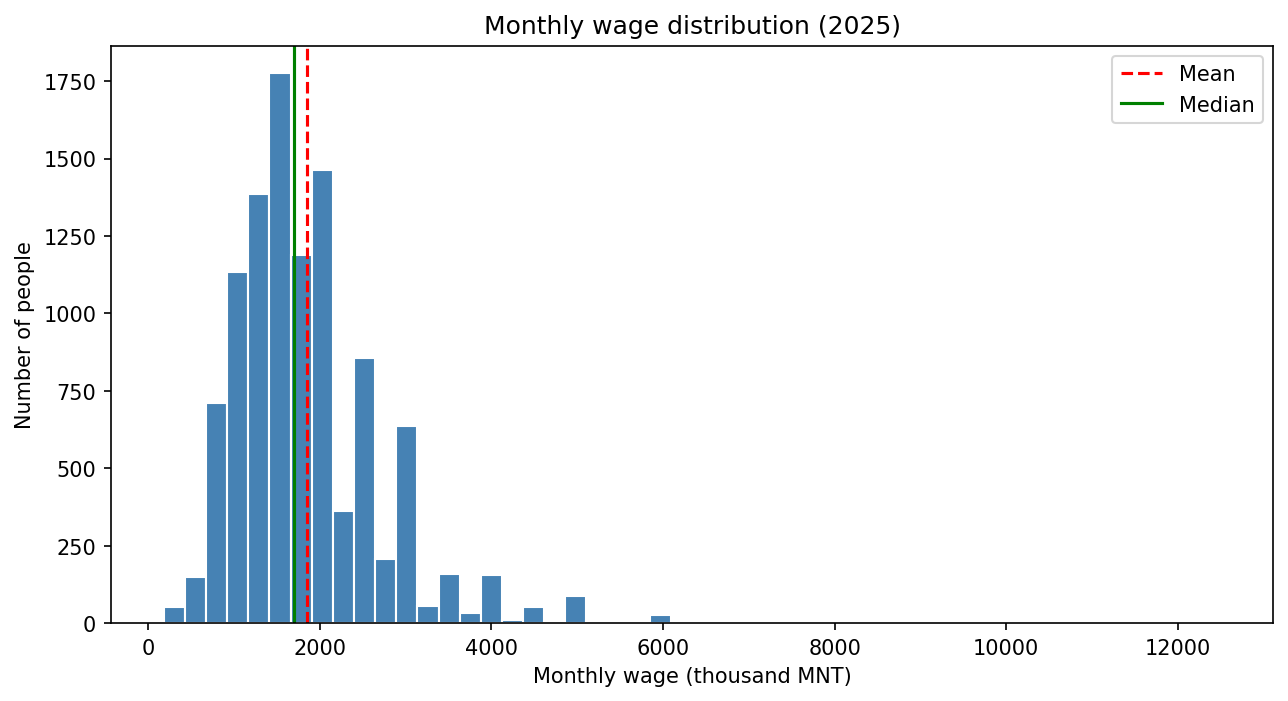
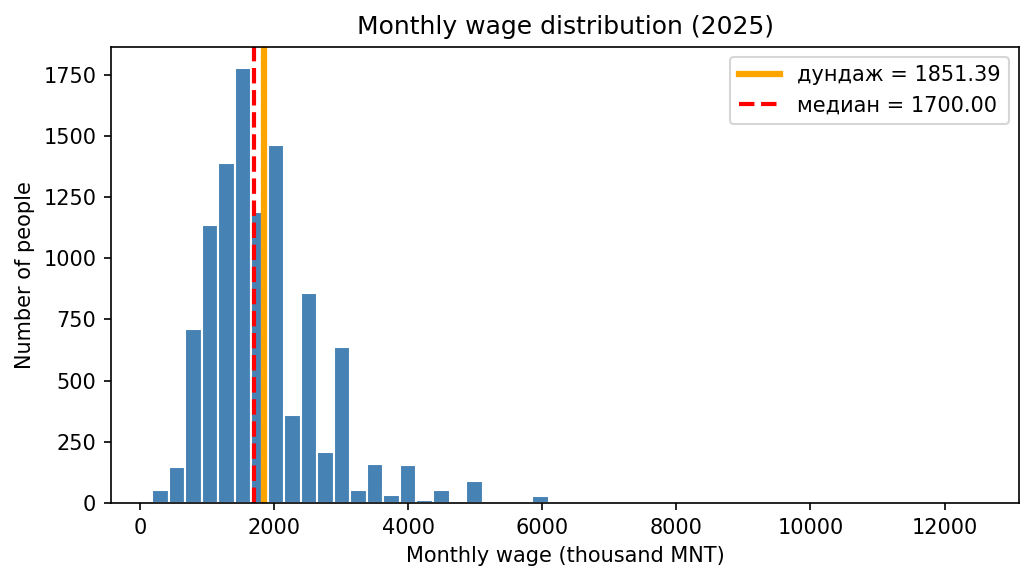
final workin of python

diff --git a/2024/index.py b/2024/index.py
@@ -8,14 +8,19 @@ from pathlib import Path
 import numpy as np
 import pandas as pd
 
-from aiaa_eda_tools_team_4.cleaning import (missing_report, iqr_outliers, basic_stats,
-                                            group_rate, labour_indicators)
-from aiaa_eda_tools_team_4.stats import group_stats, iqr_bounds
-from aiaa_eda_tools_team_4.plots import plot_hist, plot_bar, plot_box, plot_line, plot_corr
+try:
+    from aiaa_eda_tools_team_4.cleaning import (missing_report, iqr_outliers, basic_stats,
+                                                group_rate, labour_indicators)
+    from aiaa_eda_tools_team_4.stats import group_stats, iqr_bounds
+    from aiaa_eda_tools_team_4.plots import plot_hist, plot_bar, plot_box, plot_line, plot_corr
+except ImportError as e:
+    raise SystemExit(f"The library is missing or too old ({e}).\n"
+                     "Fix: py -m pip install --upgrade aiaa-eda-tools-team-4")
 
 # Settings for this year's data (column names differ between survey years)
 YEAR = 2024
 WEIGHT_COL = "weighty_cal_Y"
+SHOW_PLOTS = True   # open each chart in a window (close it to see the next one)
 PERSON_KEY = ["PSU", "ssu", "quarter", "p01"]   # columns that identify one person
 
 DATA_PATH = Path(__file__).resolve().parent / "data.csv"
@@ -110,7 +115,7 @@ print("Range:", np.ptp(wage["f02"]))
 
 plot_hist(wage, "f02", path=OUT_DIR / "hist_wage.png", bins=50,
           title=f"Monthly wage distribution ({YEAR})",
-          xlabel="Monthly wage (thousand MNT)", ylabel="Number of people", show=False)
+          xlabel="Monthly wage (thousand MNT)", ylabel="Number of people", show=SHOW_PLOTS)
 
 
 # 5. Wages by group: sex, education, age
@@ -175,13 +180,13 @@ rates_long = (lf_sex.rename(columns={"lfpr": "Participation %", "unemp_rate": "U
 plot_bar(rates_long, x="indicator", y="rate", hue="sex", palette=sex_colors,
          path=OUT_DIR / "bar_labour_rates_sex.png", ylim=(0, 100),
          title=f"Labour force rates by sex, weighted ({YEAR})",
-         xlabel="", ylabel="Rate (%)", show=False)
+         xlabel="", ylabel="Rate (%)", show=SHOW_PLOTS)
 
 # plot_box: wage spread for each education level (y cut at 1.5x the IQR upper bound)
 plot_box(wage, x="education", y="f02", order=EDU_ORDER, rotate=40,
          ylim=(0, b["upper"] * 1.5), path=OUT_DIR / "box_wage_edu.png",
          title=f"Monthly wage by education ({YEAR})",
-         xlabel="", ylabel="Monthly wage (thousand MNT)", show=False)
+         xlabel="", ylabel="Monthly wage (thousand MNT)", show=SHOW_PLOTS)
 
 # plot_line: median wage across age groups, one line per sex
 age_sex = group_stats(wage, ["age_group", "sex"], "f02").reset_index()
@@ -189,12 +194,12 @@ age_sex["age_group"] = age_sex["age_group"].astype(str)
 plot_line(age_sex, x="age_group", y="median", hue="sex", palette=sex_colors,
           path=OUT_DIR / "line_wage_age_sex.png",
           title=f"Median monthly wage by age and sex ({YEAR})",
-          xlabel="Age group", ylabel="Median wage (thousand MNT)", show=False)
+          xlabel="Age group", ylabel="Median wage (thousand MNT)", show=SHOW_PLOTS)
 
 # plot_corr: how wage, age and working hours move together
 numeric = wage[["f02", "a05", "g01t", "g02t"]].rename(columns={
     "f02": "Wage", "a05": "Age", "g01t": "Usual hours/week", "g02t": "Actual hours/week"})
 plot_corr(numeric, path=OUT_DIR / "corr_wage_age_hours.png",
-          title=f"Correlation: wage, age, hours ({YEAR})", show=False)
+          title=f"Correlation: wage, age, hours ({YEAR})", show=SHOW_PLOTS)
 
 print("Charts saved to:", OUT_DIR)

diff --git a/2023/index.py b/2023/index.py
@@ -8,14 +8,19 @@ from pathlib import Path
 import numpy as np
 import pandas as pd
 
-from aiaa_eda_tools_team_4.cleaning import (missing_report, iqr_outliers, basic_stats,
-                                            group_rate, labour_indicators)
-from aiaa_eda_tools_team_4.stats import group_stats, iqr_bounds
-from aiaa_eda_tools_team_4.plots import plot_hist, plot_bar, plot_box, plot_line, plot_corr
+try:
+    from aiaa_eda_tools_team_4.cleaning import (missing_report, iqr_outliers, basic_stats,
+                                                group_rate, labour_indicators)
+    from aiaa_eda_tools_team_4.stats import group_stats, iqr_bounds
+    from aiaa_eda_tools_team_4.plots import plot_hist, plot_bar, plot_box, plot_line, plot_corr
+except ImportError as e:
+    raise SystemExit(f"The library is missing or too old ({e}).\n"
+                     "Fix: py -m pip install --upgrade aiaa-eda-tools-team-4")
 
 # Settings for this year's data (column names differ between survey years)
 YEAR = 2023
 WEIGHT_COL = "weight_cal_Y"
+SHOW_PLOTS = True   # open each chart in a window (close it to see the next one)
 PERSON_KEY = ["psu", "ssu", "quarter", "p01"]   # columns that identify one person
 
 DATA_PATH = Path(__file__).resolve().parent / "data.csv"
@@ -110,7 +115,7 @@ print("Range:", np.ptp(wage["f02"]))
 
 plot_hist(wage, "f02", path=OUT_DIR / "hist_wage.png", bins=50,
           title=f"Monthly wage distribution ({YEAR})",
-          xlabel="Monthly wage (thousand MNT)", ylabel="Number of people", show=False)
+          xlabel="Monthly wage (thousand MNT)", ylabel="Number of people", show=SHOW_PLOTS)
 
 
 # 5. Wages by group: sex, education, age
@@ -175,13 +180,13 @@ rates_long = (lf_sex.rename(columns={"lfpr": "Participation %", "unemp_rate": "U
 plot_bar(rates_long, x="indicator", y="rate", hue="sex", palette=sex_colors,
          path=OUT_DIR / "bar_labour_rates_sex.png", ylim=(0, 100),
          title=f"Labour force rates by sex, weighted ({YEAR})",
-         xlabel="", ylabel="Rate (%)", show=False)
+         xlabel="", ylabel="Rate (%)", show=SHOW_PLOTS)
 
 # plot_box: wage spread for each education level (y cut at 1.5x the IQR upper bound)
 plot_box(wage, x="education", y="f02", order=EDU_ORDER, rotate=40,
          ylim=(0, b["upper"] * 1.5), path=OUT_DIR / "box_wage_edu.png",
          title=f"Monthly wage by education ({YEAR})",
-         xlabel="", ylabel="Monthly wage (thousand MNT)", show=False)
+         xlabel="", ylabel="Monthly wage (thousand MNT)", show=SHOW_PLOTS)
 
 # plot_line: median wage across age groups, one line per sex
 age_sex = group_stats(wage, ["age_group", "sex"], "f02").reset_index()
@@ -189,12 +194,12 @@ age_sex["age_group"] = age_sex["age_group"].astype(str)
 plot_line(age_sex, x="age_group", y="median", hue="sex", palette=sex_colors,
           path=OUT_DIR / "line_wage_age_sex.png",
           title=f"Median monthly wage by age and sex ({YEAR})",
-          xlabel="Age group", ylabel="Median wage (thousand MNT)", show=False)
+          xlabel="Age group", ylabel="Median wage (thousand MNT)", show=SHOW_PLOTS)
 
 # plot_corr: how wage, age and working hours move together
 numeric = wage[["f02", "a05", "g01t", "g02t"]].rename(columns={
     "f02": "Wage", "a05": "Age", "g01t": "Usual hours/week", "g02t": "Actual hours/week"})
 plot_corr(numeric, path=OUT_DIR / "corr_wage_age_hours.png",
-          title=f"Correlation: wage, age, hours ({YEAR})", show=False)
+          title=f"Correlation: wage, age, hours ({YEAR})", show=SHOW_PLOTS)
 
 print("Charts saved to:", OUT_DIR)

diff --git a/2025/index.py b/2025/index.py
@@ -8,14 +8,19 @@ from pathlib import Path
 import numpy as np
 import pandas as pd
 
-from aiaa_eda_tools_team_4.cleaning import (missing_report, iqr_outliers, basic_stats,
-                                            group_rate, labour_indicators)
-from aiaa_eda_tools_team_4.stats import group_stats, iqr_bounds
-from aiaa_eda_tools_team_4.plots import plot_hist, plot_bar, plot_box, plot_line, plot_corr
+try:
+    from aiaa_eda_tools_team_4.cleaning import (missing_report, iqr_outliers, basic_stats,
+                                                group_rate, labour_indicators)
+    from aiaa_eda_tools_team_4.stats import group_stats, iqr_bounds
+    from aiaa_eda_tools_team_4.plots import plot_hist, plot_bar, plot_box, plot_line, plot_corr
+except ImportError as e:
+    raise SystemExit(f"The library is missing or too old ({e}).\n"
+                     "Fix: py -m pip install --upgrade aiaa-eda-tools-team-4")
 
 # Settings for this year's data (column names differ between survey years)
 YEAR = 2025
 WEIGHT_COL = "weight_cal_y"
+SHOW_PLOTS = True   # open each chart in a window (close it to see the next one)
 PERSON_KEY = ["axc_id", "p01"]   # columns that identify one person
 
 DATA_PATH = Path(__file__).resolve().parent / "data.csv"
@@ -110,7 +115,7 @@ print("Range:", np.ptp(wage["f02"]))
 
 plot_hist(wage, "f02", path=OUT_DIR / "hist_wage.png", bins=50,
           title=f"Monthly wage distribution ({YEAR})",
-          xlabel="Monthly wage (thousand MNT)", ylabel="Number of people", show=False)
+          xlabel="Monthly wage (thousand MNT)", ylabel="Number of people", show=SHOW_PLOTS)
 
 
 # 5. Wages by group: sex, education, age
@@ -175,13 +180,13 @@ rates_long = (lf_sex.rename(columns={"lfpr": "Participation %", "unemp_rate": "U
 plot_bar(rates_long, x="indicator", y="rate", hue="sex", palette=sex_colors,
          path=OUT_DIR / "bar_labour_rates_sex.png", ylim=(0, 100),
          title=f"Labour force rates by sex, weighted ({YEAR})",
-         xlabel="", ylabel="Rate (%)", show=False)
+         xlabel="", ylabel="Rate (%)", show=SHOW_PLOTS)
 
 # plot_box: wage spread for each education level (y cut at 1.5x the IQR upper bound)
 plot_box(wage, x="education", y="f02", order=EDU_ORDER, rotate=40,
          ylim=(0, b["upper"] * 1.5), path=OUT_DIR / "box_wage_edu.png",
          title=f"Monthly wage by education ({YEAR})",
-         xlabel="", ylabel="Monthly wage (thousand MNT)", show=False)
+         xlabel="", ylabel="Monthly wage (thousand MNT)", show=SHOW_PLOTS)
 
 # plot_line: median wage across age groups, one line per sex
 age_sex = group_stats(wage, ["age_group", "sex"], "f02").reset_index()
@@ -189,12 +194,12 @@ age_sex["age_group"] = age_sex["age_group"].astype(str)
 plot_line(age_sex, x="age_group", y="median", hue="sex", palette=sex_colors,
           path=OUT_DIR / "line_wage_age_sex.png",
           title=f"Median monthly wage by age and sex ({YEAR})",
-          xlabel="Age group", ylabel="Median wage (thousand MNT)", show=False)
+          xlabel="Age group", ylabel="Median wage (thousand MNT)", show=SHOW_PLOTS)
 
 # plot_corr: how wage, age and working hours move together
 numeric = wage[["f02", "a05", "g01t", "g02t"]].rename(columns={
     "f02": "Wage", "a05": "Age", "g01t": "Usual hours/week", "g02t": "Actual hours/week"})
 plot_corr(numeric, path=OUT_DIR / "corr_wage_age_hours.png",
-          title=f"Correlation: wage, age, hours ({YEAR})", show=False)
+          title=f"Correlation: wage, age, hours ({YEAR})", show=SHOW_PLOTS)
 
 print("Charts saved to:", OUT_DIR)
